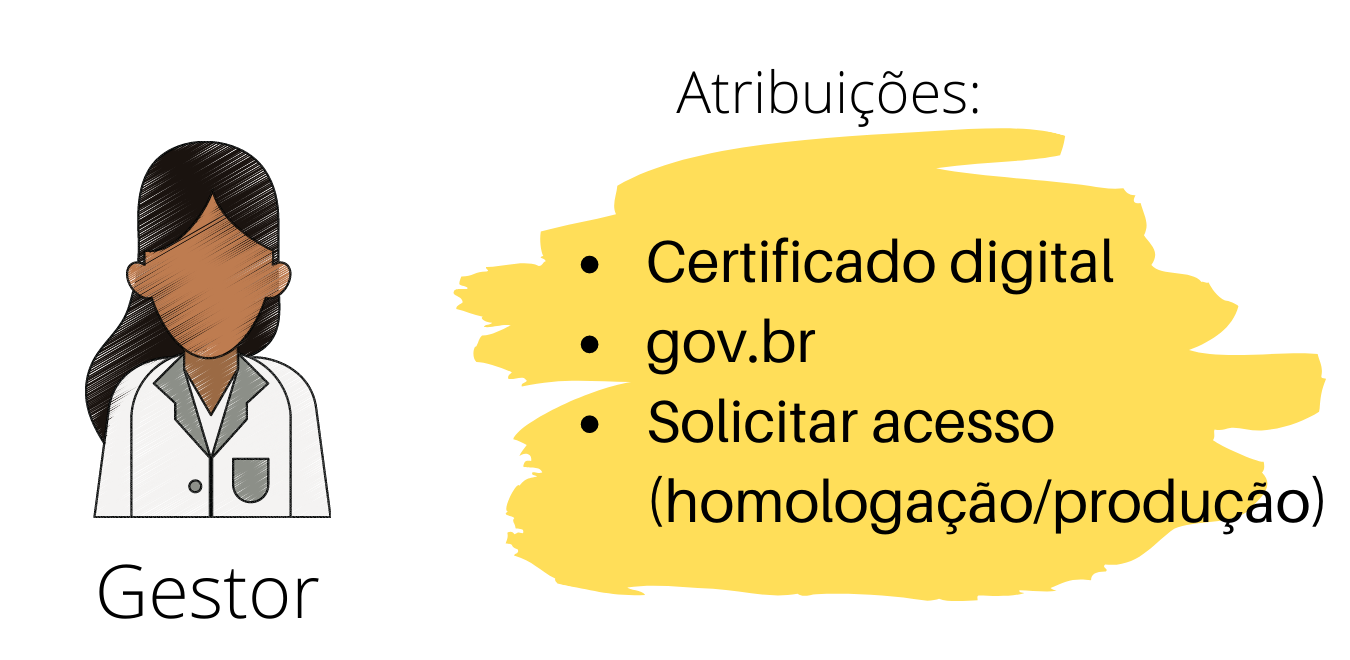
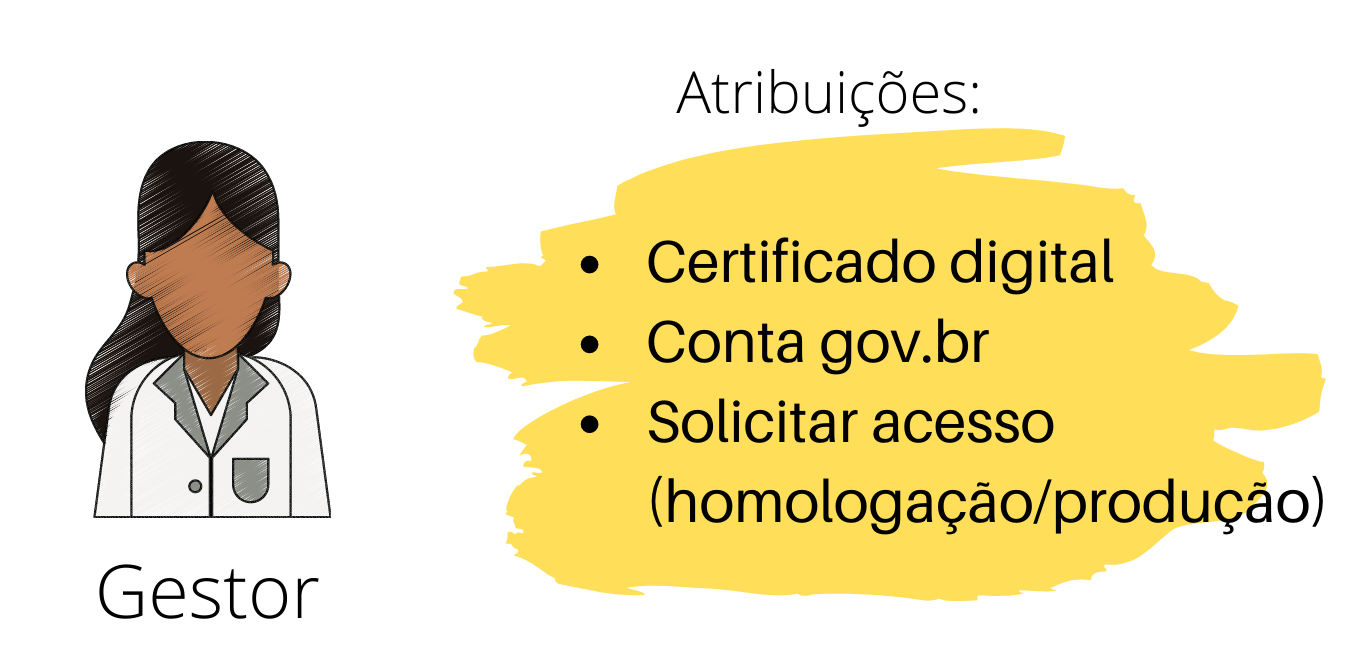
aplicando sugestoes do prof. plinio

Changed region(s): [[0.4667, 0.4848, 0.7467, 0.5758]]

diff --git a/guia/src/pages/index.js b/guia/src/pages/index.js
@@ -74,9 +74,11 @@ function Home() {
                 Rede Nacional de Dados em Saúde ({siteConfig.title})
               </h1>
               <p className="hero__subtitle">
-                Este Guia orienta estabelecimentos de saúde acerca da
-                <b> integração com a RNDS</b>, visando a interoperabilidade para
-                os cuidados em saúde no Brasil.
+                Este guia orienta gestores de estabelecimentos de Saúde, bem
+                como profissionais de tecnologia da informação acerca da
+                integração com a RNDS, visando a interoperabilidade de
+                informações em saúde para continuidade do cuidado do usuário no
+                momento da assistência em qualquer lugar do Brasil.
               </p>
               <div>
                 <Link

diff --git a/guia/docusaurus.config.js b/guia/docusaurus.config.js
@@ -78,8 +78,7 @@ module.exports = {
       {
         docs: {
           sidebarPath: require.resolve("./sidebars.js"),
-          // Please change this to your repo.
-          // Remove link "Edit this file"
+          // O comentário abaixo remove link "Edit this file"
           // editUrl: "https://github.com/kyriosdata/rnds/edit/master/guia/",
           // Exibe data em que página foi atualizada.
           showLastUpdateTime: true,

diff --git a/guia/docs/publico-alvo/gestor/certificado.md b/guia/docs/publico-alvo/gestor/certificado.md
@@ -5,18 +5,19 @@ sidebar_label: Certificado digital
 ---
 
 Certificado digital é o instrumento empregado para identificar uma
-pessoa (e-CPF) ou empresa (e-CNPJ) no mundo digital. O estabelecimento de saúde que deseja se integrar à RNDS, no momento do credenciamento, deverá
-fornecer o e-CPF do gestor ou o e-CNPJ do estabelecimento de saúde.
+pessoa (e-CPF) ou empresa (e-CNPJ) no mundo digital.
 
-Um certificado digital pode ser adquirido junto a uma _autoridade certificadora_. Existem várias autoridades certificadoras que emitem certificados legalmente válidos no território nacional, ou certificados [ICP-Brasil](../../glossario#icp-brasil).
+O estabelecimento de saúde é reconhecido pela RNDS por meio do e-CPF do seu gestor ou do seu próprio e-CNPJ. A decisão entre e-CPF ou e-CNPJ é realizada no momento da solicitação de acesso, que exige o acesso ao certificado digital a ser empregado nas interações do conector com a RNDS.
+
+Um certificado digital pode ser adquirido junto a uma _autoridade certificadora_. Existem várias autoridades certificadoras que emitem certificados legalmente válidos no território nacional, ou certificados [ICP-Brasil](../../glossario#icp-brasil), exigidos pela RNDS.
 O [Serpro](https://www.serpro.gov.br/clientes/certificacao_digital) e os [Correios](https://www.correios.com.br/atendimento/para-o-cidadao/certificado-digital) são dois exemplos.
 
 O certificado digital a ser fornecido no credenciamento do estabelecimento
-de saúde, junto à RNDS, seja o e-CPF ou e-CNPJ, pode ser de dois tipos: A1 ou A3. O A3 é fornecido por meio de um _token_ (hardware) ou _smart card_ e tem duração (validade) maior do que o A1. Estas opções cabem ao estabelecimento de saúde decidir.
+de saúde, junto à RNDS, seja o e-CPF ou e-CNPJ, pode ser de dois tipos: A1 ou A3. O A3 é fornecido por meio de um _token_ (hardware) ou _smart card_ e pode ter uma duração (validade) maior do que o A1. Estas opções cabem ao estabelecimento de saúde decidir.
 
 Seja e-CPF ou e-CNPJ, tipo A1 ou A3, o
 certificado deve ser mantido em segurança, assim como a senha empregada
-para acesso ao conteúdo do certificado. Tanto o certificado digital quanto a senha de acesso (código) ao conteúdo do certificado será empregado pelo software de integração com a RNDS.
+para acesso ao conteúdo do certificado. Tanto o certificado digital quanto a senha de acesso (código) ao conteúdo do certificado será empregado pelo conector para obter acesso aos serviços oferecidos pela RNDS.
 
 Convém esclarecer que o certificado
 digital do estabelecimento de saúde informado no processo de solicitação de acesso deve ser o mesmo empregado para autenticação. Ou seja, a RNDS irá identificar as requisições do estabelecimento de saúde por meio do certificado empregado no processo de solicitação de acesso.

diff --git a/guia/docs/publico-alvo/gestor/gestor.md b/guia/docs/publico-alvo/gestor/gestor.md
@@ -16,16 +16,18 @@ papéis. Além do gestor, o outro é o [integrador](../ti/ti).
 ## Atribuições do gestor
 
 As atribuições do gestor, detalhadas abaixo, são:
-(a) adquirir certificado digital; (b) criar conta gov.br (caso não possua uma); (c) solicitar acesso aos serviços da RNDS (ambiente de homologação); (d) validar mapeamento e (e) solicitar acesso ao ambiente de produção.
+(a) adquirir certificado digital; (b) criar conta gov.br (caso não possua uma); e (c) solicitar acesso aos serviços da RNDS (ambiente de homologação e de produção).
+
+Estas atribuições estão intercaladas com outras realizadas pelo integrador (o outro ator do estabelecimento de saúde) e pelo DATASUS, conforme ilustra o [diagrama](../../passo-a-passo#diagrama).
 
 ### Adquirir certificado digital
 
-Adquirir o certificado digital a ser utilizado para identificar o laboratório junto à RNDS. Este certificado é empregado no item seguinte (_solicitar acesso_) e também pelo _software_ de integração com a RNDS. O _software_ de integração é atribuição do responsável pela TI do laboratório (seção seguinte).
+Adquirir o certificado digital a ser utilizado para identificar o estabelecimento de saúde junto à RNDS. Este certificado é empregado na solicitação de acesso e, em especial, pelo conector (software de integração) para obter acesso aos serviços oferecidos pela RNDS. O desenvolvimento do conector é atribuição do [integrador](../ti/ti).
 
-A execução satisfatória desta atribuição resulta em:
+Resultado esperado:
 
 - Certificado digital, arquivo **.pfx**, disponibilizado.
-- Senha secreta de acesso ao certificado disponibilizada para uso pelo profissional de TI do laboratório.
+- Senha secreta de acesso ao certificado disponibilizada para uso pelo conector.
 
 ### Criar conta gov.br
 

diff --git a/guia/docs/publico-alvo/publico-alvo.md b/guia/docs/publico-alvo/publico-alvo.md
@@ -4,7 +4,10 @@ title: Público-alvo
 sidebar_label: Quem?
 ---
 
-_Estabelecimentos de saúde do país_. Em algum momento, todos os estabelecimentos de saúde estarão integrados à RNDS, contudo, isto ocorrerá ao longo do tempo. Por exemplo, a primeira necessidade contemplada para a interoperabilidade foi o envio de resultado de exame de COVID-19, o que cabe a parte dos estabelecimentos de saúde (apenas os laboratórios de análises clínicas). Quando o Sumário de Alta, Registro de Atendimento Clínico e outras informações forem contempladas, novos estabelecimentos serão incluídos.
+O público-alvo são os _estabelecimentos de saúde_ do país.
+
+A primeira necessidade contemplada para a interoperabilidade via RNDS foi o envio de resultados de exame de COVID-19, o que cabe somente a estabelecimentos de saúde específicos (apenas os laboratórios de análises clínicas).
+Ao longo do tempo, todos os estabelecimentos de saúde estarão integrados à RNDS. Por exemplo, quando o Sumário de Alta, Registro de Atendimento Clínico e outras informações forem contempladas, novos estabelecimentos serão incluídos.
 
 > O Guia está organizado por tipo de informação em saúde trocada com a RNDS.
 
